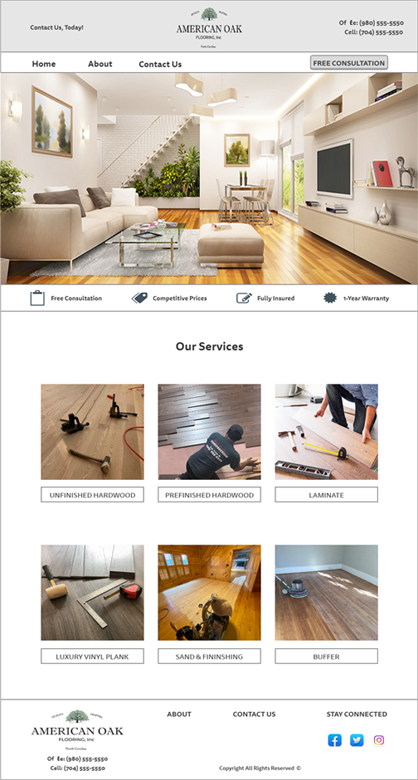
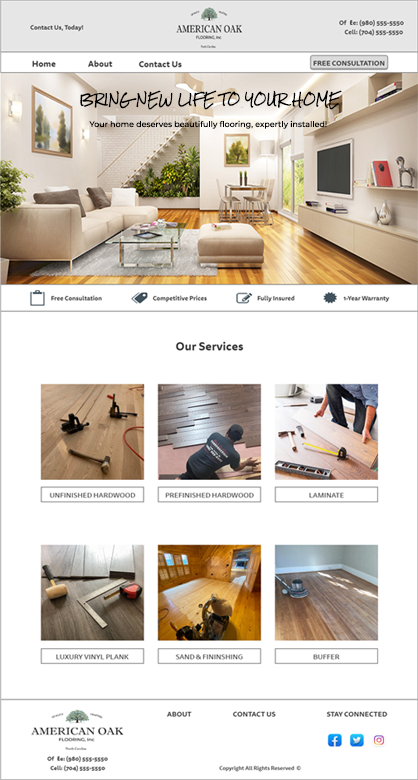
finishing wireframes for personal site and creating w09_challenge

Changed region(s): [[0.1866, 0.0923, 0.8086, 0.1846]]

diff --git a/americanoak-flooring/site-plan.html b/americanoak-flooring/site-plan.html
@@ -17,7 +17,7 @@
     </header>
     <main>
 
-      <!-- ------------------------Steps 2-3------------------------------ -->
+      <!-- -Steps 2-3- -->
       <hr>
       <h2>Overview</h2>
       <h3>Purpose</h3>
@@ -36,7 +36,7 @@
         Style Guide
       </h2>
 
-      <!-- ------------------------Steps 4-8------------------------------ -->
+      <!-- -Steps 4-8- -->
 
       <h3>
         Color Palette
@@ -49,7 +49,7 @@
         <tr><td class="primary">[#F2F8F3]</td><td class="secondary">[#9FAA88]</td><td class="accent1">[#4B8063]</td><td class="accent2">[#36513C]</td></tr>
       </table>
 
-      <!-- ------------------------Step 9------------------------------ -->
+      <!-- -Step 9- -->
 
       <h3>
         Typography
@@ -60,7 +60,7 @@
         Heading Font: Rock Salt  <!-- change this -->
       </h4>
       <h4>
-        Paragraph Font: Alumni Sans Pinstripe  <!-- change this -->
+        Paragraph Font: Montserrat  <!-- change this -->
       </h4>
       <h3>
         Normal paragraph example
@@ -75,7 +75,7 @@
         Lorem ipsum dolor sit amet, consectetur adipiscing elit, sed do eiusmod tempor incididunt ut labore et dolore magna aliqua. Ut enim ad minim veniam, quis nostrud exercitation ullamco laboris nisi ut aliquip ex ea commodo consequat. 
       </p>
 
-      <!-- ------------------------Step 10------------------------------ -->
+      <!-- -Step 10- -->
 
       <h3>
         Navigation
@@ -113,7 +113,7 @@
 
       </div>
 
-      <!-- --------Content Section -------------- -->
+      <!-- -Content Section- -->
       <hr>
       <h2>
         Content
@@ -122,8 +122,49 @@
       <p>
         BRING NEW LIFE TO YOUR HOME<br>
         Your home deserves beautifully flooring, expertly installed!<br>
-        
-      </p>
+        <strong>Installation</strong><br>
+        American Oak flooring, Inc., has been installing, sanding, and refinishing hardwood floors in homes and business throughout Charlotte, NC, and surrounding areas for 16 years. We are an owner-operator Hardwood Floor restoration business dedicated to providing you with excellent service at the highest level of customer satisfaction. We want to help you choose just the right hardwood floor to suit your décor, budget, and busy lifestyle. Call us and experience what it fells like to work with a caring, quality company and learn why so many people recommend American Oak Flooring, Inc. to their friends and family. We welcome the opportunity to provide you with a free consultation to set you on the path to the perfect floor for you.<br><br>
+        <strong>Flooring Categories:</strong>
+        <ul>
+          <li><strong>Solid Wood:</strong> The typical hardwood floor can be purchased unfinished or prefinished, and is available in many different species of wood in a variety of grades and colors.</li>
+          <li><strong>Engineered Wood:</strong>  This product is a multi-layered wood floor that is usually thinner than solid wood, where the upper layer is the real wood. An engineered wood floor is a very good choice for areas with moisture due to its flexibility and is a great option when installed on top of concrete.</li>
+          <li><strong>Laminate Flooring:</strong> This option is not real wood, and is made out of Formica with a wood pattern. A laminate floor simulates real wood. This product is easier to maintain and install, as opposed to a traditional hardwood floor. A common advantage of a laminate floor is that it may be a more cost-effective solution to a growing problem in your home or business.</li>
+          <li><strong>Luxury Vinyl Plank (LVP):</strong> As the name implies, Luxury Vinyl Planks look like plank of hardwood floors. They are individual pieces of vinyl (not sheet of vinyl), so they look very similar to the real thing. It provides an attractive and durable option for high-traffic areas. The moisture-resistant product offers locking installation.</li>
+        </ul>
+        <strong>Sanding & Refinishing</strong><br>Having your hardwood floors refinished is one of the easiest way to drastically improve the look of your home. There isn’t and easier way to not only improve the beauty of your home but also preserve its value. Here are a few of the most common reasons why customers decide to have their floors refinished:
+        <ul>
+          <li>Floors are completely worn and have deep scratches,</li>
+          <li>Decide to remove carpet of linoleum and refinish the hardwood floors underneath,</li>
+          <li>Want to change the color of the hardwood floors.</li>
+        </ul>
+        <strong>Phase 1: Sanding</strong><br>
+        The first step will be sanding. We will remove old stains, dirt and scratches from the current floor. This will prepare your old wood floor for staining and refinishing. Once we complete the sanding process, we will apply the stain color that you previously selected. <br><br>
+        <strong>Phase 2: Sanding</strong><br>
+        The finishing process begins by protecting you newly-sanded woof floor with layers of either and oil-based polyurethane finish, a water-based finish, or Rubio Monocoat*. We will discuss all of your options with you, and find the right finish that will make your floor look fantastic for year to come! <br>
+        * Rubio Monocoat is a penetration sealer with zero shine whatsoever. It is a revolutionary plant-based, hard-wax oil that is 0% VOC. As the name implies, in 1 coat you’ll get color and protection for your wood. This result in a durable, water-resistant finish, all while keeping the natural look and feel of the wood. <br><br>
+        <strong>Buffer</strong><br>
+        Your hardwood floors are a highly visible aspect of the design of your home, office, or workplace. Left untreated; scratches, moisture, and dents can not only diminish the natural beauty of your floors but also damage the wood. Regular preventive maintenance is essential to protect your investment and keep your floors looking their best. <br>
+        We always use the highest quality materials and follow up with high-speed buffing machines to protect your floor’s finish as well as to bring forth its natural beautiful shine. <br><br>
+
+        <strong>The Importance of Buffing Hardwood Floor</strong> <br>
+        It offers numerous benefits to sustain the look you love and restore that brand new fell to your floor. <br>
+        <ul>
+          <li>Can be an affordable alternative to complete the refinishing process, depending on the condition of your floors and your budget requirements,</li>
+          <li>Can hide or reduce any visible scratches and marks,</li>
+          <li>Can help protect your floors from future damage,</li>
+          <li>Can restore that shiny, new look to your floors,</li>
+          <li>Is quick and efficient,</li>
+          <li>Is less invasive than a full restoration,</li>
+          <li>Leaves little mess and the cleanup is easier than ever.</li>
+        </ul>
+        <strong>The Process:</strong> <br>
+        At American Oak Flooring, Inc., we typically offer wood floor buffing as part of our wood floor service for those on a budget or with minor damage. Wood floor buffing can be integral to maintaining your flooring on its own. The process typically consists of the following steps: <br>
+        <ul>
+          <li>Fist, the furniture needs to be relocated.</li>
+          <li>Finally, we will buff your hardwood floors to restore shine and reduce any visibility from scratches!</li>
+        </ul>
+        <strong>Eliminate dullness and restore the original look to your flooring with wood floor buffing by American Oak Flooring - Call today for a free estimate! </strong>
+      <!--</p> -->
       <p>Images for the Home page</p>
         <img src="images/hero-image-site-plan.png" alt="Hero image">
         <img src="images/Installation.png" alt="Unfinished hardwood image">
@@ -141,7 +182,6 @@
         <img src="images/icon02_instagram.png" alt="Icon instagram image">
         <img src="images/icon02_twitter.png" alt="Icon twitter image">
 
-      </ul>
       <h3>About</h3>
       <p>
         American Oak Flooring, Inc., has been installing, sanding, and refinishing hardwood floors in homes and businesses throughout 
@@ -159,8 +199,6 @@
         <img src="images/icon02_instagram.png" alt="Icon instagram image">
         <img src="images/icon02_twitter.png" alt="Icon twitter image">
 
-
-      </ul>
       <h3>Contact Us</h3>
       <p>
         Schedule a Free Estimate<br>
@@ -179,7 +217,6 @@
       <img src="images/icon02_instagram.png" alt="Icon instagram image">
       <img src="images/icon02_twitter.png" alt="Icon twitter image">
 
-      </ul>
       <hr>
       <h2>
         Wireframes
@@ -189,19 +226,19 @@
 
       <h3>Home</h3>
       <p>         
-        [Any additional details about home that the wireframe does not make clear]
+        It may have additional links to other pages.
       </p>
       <img src="images/wireframe-homepage.png" alt="Home Page wireframe image">
 
       <h3>About</h3>
       <p>         
-        [Any additional details about page 2 that the wireframe does not make clear]
+        No additional details about page 2 that the wireframe does not make clear
       </p>
       <img src="images/wireframe-about.png" alt="About Us wireframe image">
 
       <h3>Contact Us</h3>
       <p>         
-        [Any additional details about page 3 that the wireframe does not make clear]
+        No additional details about page 3 that the wireframe does not make clear
       </p>
       <img src="images/wireframe-contactus.png" alt="Contact Us wireframe image">
     </main>

diff --git a/challenges/w09/styles/w09-style.css b/challenges/w09/styles/w09-style.css
@@ -1,0 +1,98 @@
+@import url('https://fonts.googleapis.com/css2?family=Roboto+Slab:wght@400;700&display=swap');
+
+
+body {
+    width: 100vw;
+    height: 100vh;
+    display: flex;
+    align-items: center;
+    justify-content: center;
+    background: #2a2929;
+    overflow: hidden;
+}
+
+.card {
+    display: grid;
+    grid-template-columns: 300px;
+    grid-template-rows: 210px auto 80px;
+    grid-template-areas: "image" "text" "statistics";
+
+    font-family: 'Roboto Slab', serif;
+    border-radius: 18px;
+    background: white;
+    box-shadow: 5px 5px 15px rgba(0,0,0,0.9);
+    text-align: center;
+}
+
+img {
+    border-top-left-radius: 15px;
+    border-top-right-radius: 15px;
+}
+
+.card-image {
+    grid-area: image;
+    background-size: cover;
+}
+
+.card-text {
+    grid-area: text;
+    margin: 20px;
+}
+
+.card-text .date {
+    color: #405c89;
+    font-size: 15px;
+}
+
+.card-text p {
+    color: grey;
+    font-size: 18px;
+    font-weight: 500;
+}
+
+.card-text h2 {
+    margin-top: 0px;
+    font-family: 'Roboto Slab', serif;
+    font-size: 30px;
+    padding: 10px;
+}
+
+.card-statistics {
+    grid-area: statistics;
+    display: grid;
+    grid-template-columns: 1fr 1fr 1fr;
+    grid-template-rows: 1fr;
+    border-bottom-left-radius: 15px;
+    border-bottom-right-radius: 15px;
+    background: #405c89;
+    font-family: "Times New Roman";
+}
+
+.card-statistics .stat {
+    display: flex;
+    align-items: center;
+    justify-content: center;
+    flex-direction: column;
+    padding: 10px;
+    color: white;
+}
+
+.card-statistics .type {
+    font-size: 12px;
+    font-weight: 300;
+    text-transform: uppercase;
+}
+
+.card-statistics .numbers {
+    font-size: 22px;
+    font-weight: 500;
+}
+
+.card-statistics .border {
+    border-left: 1px solid grey;
+    border-right: 1px solid grey;
+}
+
+.card-ststatisticsats .numbers sup {
+    font-size: 12px;
+}

diff --git a/challenges/w09/w09_challenge.html b/challenges/w09/w09_challenge.html
@@ -1,0 +1,36 @@
+<!DOCTYPE html>
+<html lang="en">
+    <head>
+        <meta charset="UTF-8">
+        <meta http-equiv="X-UA-Compatible" content="IE=edge">
+        <meta name="viewport" content="width=device-width, initial-scale=1.0">
+        <link rel="stylesheet" type="text/css" href="/styles/w09-style.css">
+        <title>W09 - Challenge</title>
+    </head>
+    <body>
+        <div class="card">
+            <div class="card-image">
+                <img src="/images/w09_ice_img.jpg" alt="Bridge">
+            </div>
+            <div class="card-text">
+                <span class="date">3 weeks ago</span>
+                <h2>Post Three</h2>
+                <p>This would be some text to go here and tell you about this awesome article that they should definitely read. This would be some text to go here and tell you about this awesome article that they should definitely read. This would be some text to go here.</p>
+            </div>        
+            <div class="card-statistics">
+                <div class="stat">
+                    <div class="numbers">5<sup>m</sup></div>
+                    <div class="type">read</div>
+                </div>
+                <div class="stat border">
+                    <div class="numbers">2031</div>
+                    <div class="type">views</div>
+                </div>
+                <div class="stat">
+                    <div class="numbers">15</div>
+                    <div class="type">comments</div>
+                </div>
+            </div>
+        </div>
+    </body>
+</html>
